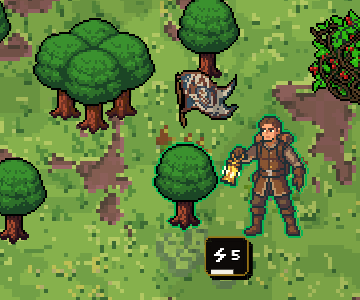
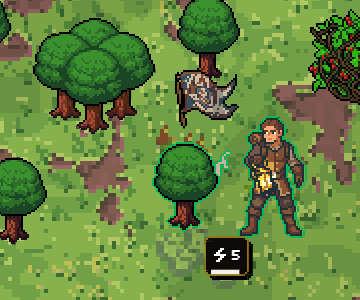
Hero orders O1: tutorial chain driven through orders, needs-a-job mark on the art list, final shots

Changed region(s): [[0.5806, 0.36, 0.8556, 0.81], [0.6417, 0.9, 0.6722, 0.93]]

diff --git a/src/tests/QuestTutorialChain.test.js b/src/tests/QuestTutorialChain.test.js
@@ -18,6 +18,7 @@ import * as SpriteLayer from '../systems/board/SpriteLayer.js';
 import * as TileModifiers from '../systems/board/TileModifiers.js';
 import * as StationRecipe from '../systems/board/StationRecipe.js';
 import * as Flags from '../systems/board/Flags.js';
+import * as Orders from '../systems/board/Orders.js';
 import * as Shop from '../systems/board/Shop.js';
 import * as Atlas from '../systems/atlas/Atlas.js';
 import { isMapItem } from '../systems/atlas/mapItems.js';
@@ -167,10 +168,10 @@ describe('⭐ the cartographer\'s chain, step by step, through the real systems'
         expect(EquipmentManager.equipItem(heroId, AXE).success).toBe(true);
         claim('cart_tool');
 
-        // 3. Plant a Flag beside an Oak Tree.
+        // 3. Send the Hero to work: the player's drop onto an Oak Tree (hero orders, brief 260 O1).
         Placement.placeTokenAt(
             BoardState.createTokenInstance('token_oak_tree', tokenStartingUses('token_oak_tree')), SPOT.tree);
-        expect(Flags.plant(heroId, SPOT.tree).success).toBe(true);
+        expect(Orders.orderAt(heroId, SPOT.tree)).toMatchObject({ success: true, order: 'token' });
         claim('cart_flag');
 
         // 4. Gather three times.
@@ -181,7 +182,10 @@ describe('⭐ the cartographer\'s chain, step by step, through the real systems'
         expect(runUntil(() => {
             collectAll();
             if (!onMat('token_oak_tree').length) {
-                Placement.placeTokenAt(BoardState.createTokenInstance('token_oak_tree', 10), SPOT.tree);
+                // The felled tree's Stump keeps its hero waiting: the player sends them to a new one.
+                const tree = BoardState.createTokenInstance('token_oak_tree', 10);
+                Placement.placeTokenAt(tree, SPOT.tree);
+                if (BoardState.getTokenById(tree.id)) Orders.orderAt(heroId, { x: tree.x, y: tree.y });
             }
             return complete('cart_loot');
         }, 10 * 60_000)).toBe(true);

diff --git a/docs/active/owner_art_list.md b/docs/active/owner_art_list.md
@@ -182,3 +182,9 @@ swapping a picture in for one is a small code change.
 | Loot bag | **NEW** | The log's "Drops" line |
 | Knocked out (a down arrow) | **NEW** | The log's knockout and the "While you were away" Knocked out line |
 | Enemy animation sheets | **NEW** (as wanted) | Only the Cow has one today (`e_cow_sheet`); every other enemy stands still in the fight panel's strip and loops nothing on the mat. A sheet is 4 × 4 frames of 64 px (rows 0–1 idle, 2–3 attack); registering one is a one-line code change |
+
+## 6. Hero orders (brief 260 O1)
+
+| Piece | Status | Notes |
+|---|---|---|
+| "Needs a job" mark | **NEW** | Over the head of a hero whose ordered Token is gone for good, and beside their name on the hero bar. Placeholder: the yellow problem "!" (`u_alert_yellow.png`), 16 × 16 at the hero's art scale |
